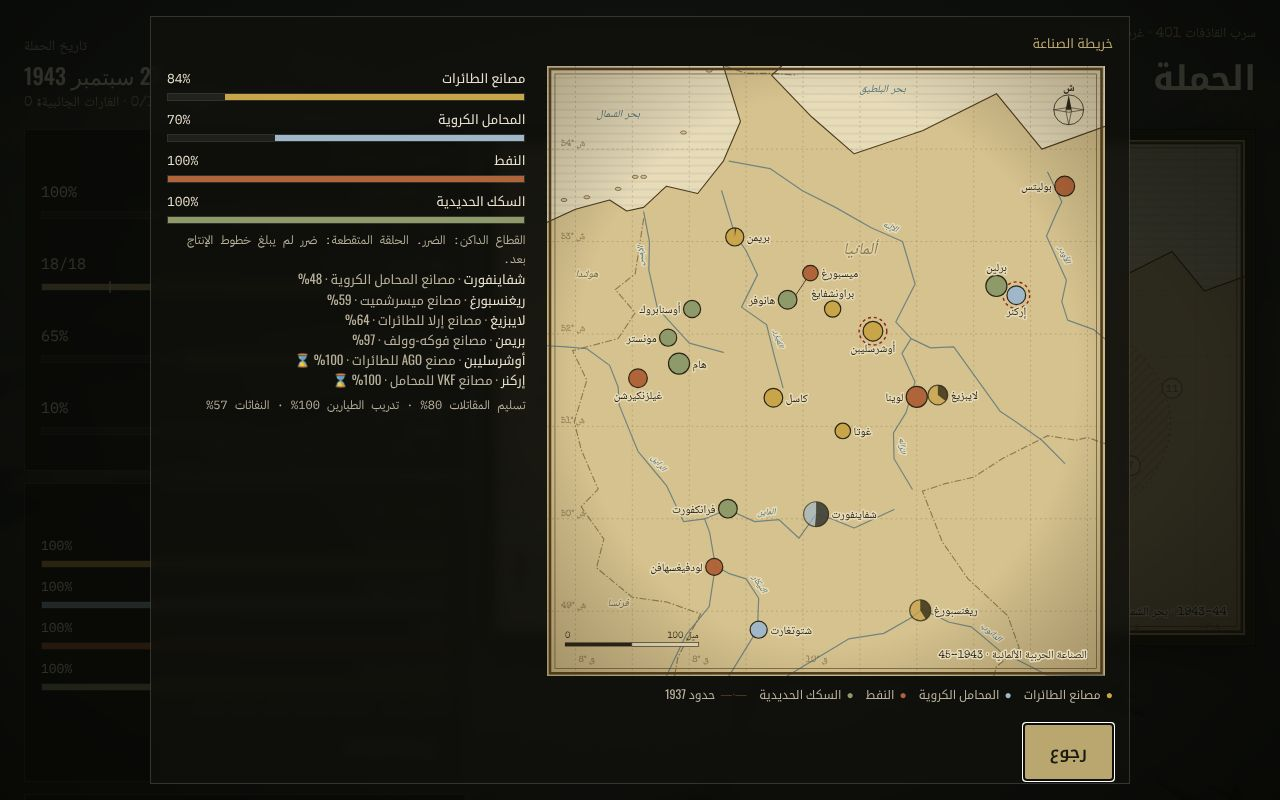
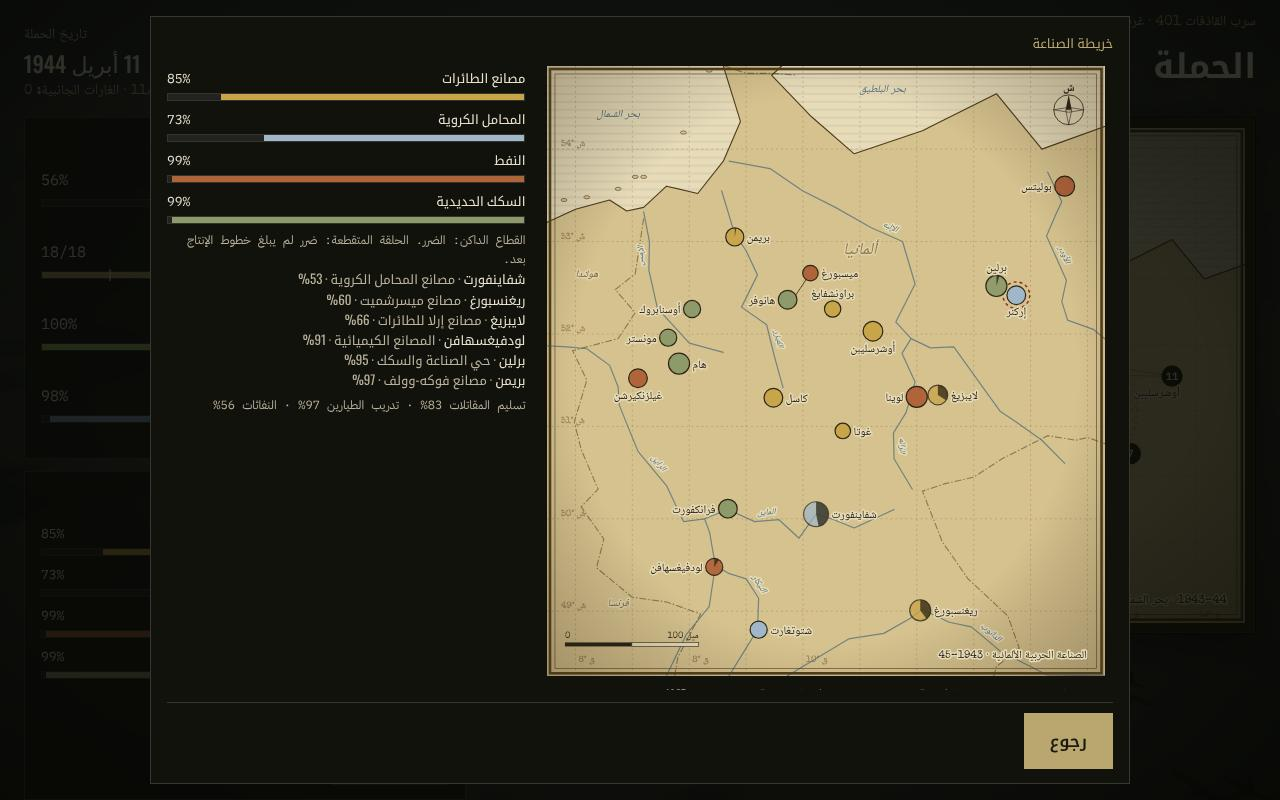
Phase 11 goal 10: phone industry map with pinned Back, shots from one state
- Industry map dialog: opaque card, scrolling body, Back pinned in a footer;
  compact phone layout fits 390x844 without scrolling (EN and AR)
- tools/strategic_shots.mjs captures map, card, industry map (desktop and
  phone) and newsreel from one seeded campaign state and asserts the card
  and overlay agree and Back is fully visible on phone
- Re-captured all goal 10 shots; full local check passes (935 tests)

Claude-Session: https://claude.ai/code/session_01DV2DjpR5u3iiqCbyi4red9

diff --git a/src/ui/StrategicPanel.ts b/src/ui/StrategicPanel.ts
@@ -52,7 +52,10 @@ function ensureStyle() {
 @media (prefers-reduced-motion: no-preference) { .sw-reel h4 { animation: sw-flicker 2.4s steps(12) 1; } }
 @keyframes sw-flicker { 0% { opacity: 0.2; } 10% { opacity: 0.9; } 14% { opacity: 0.55; } 30%, 100% { opacity: 1; } }
 .sw-map { position: fixed; inset: 0; z-index: 30; display: flex; align-items: center; justify-content: center; background: rgba(6,7,4,0.82); padding: 16px; }
-.sw-map .cm-card { width: min(980px, 100%); max-height: 100%; overflow-y: auto; }
+/* opaque, and only the body scrolls: Back stays pinned at the foot on any screen height */
+.sw-map .cm-card { width: min(980px, 100%); max-height: 100%; display: flex; flex-direction: column; overflow: hidden; background: #12120d; backdrop-filter: none; -webkit-backdrop-filter: none; }
+.sw-map .sw-body { flex: 1 1 auto; min-height: 0; overflow-y: auto; overscroll-behavior: contain; }
+.sw-map .cm-foot { flex: none; margin-top: 12px; padding-top: 10px; border-top: 1px solid var(--line); }
 .sw-map .grid { display: grid; grid-template-columns: minmax(0, 1.6fr) minmax(240px, 1fr); gap: 14px; align-items: start; }
 .sw-map svg { display: block; width: min(100%, calc((100vh - 190px) * ${(W / H).toFixed(3)})); min-width: min(100%, 320px); height: auto; margin: 0 auto; background: #e7dbb8; }
 .sw-map .legend { display: flex; flex-wrap: wrap; gap: 6px 12px; font-size: 12px; color: var(--ink-dim); margin-top: 8px; }
@@ -60,7 +63,19 @@ function ensureStyle() {
 .sw-map .legend span.fr::before { content: '—·—'; letter-spacing: -1px; color: #4d3b1e; }
 .sw-map .sites { font-size: 13px; line-height: 1.55; color: var(--ink-dim); margin: 0; padding: 0; list-style: none; }
 .sw-map .sites li b { color: var(--ink); font-weight: 500; }
-@media (max-width: 760px) { .sw-map .grid { grid-template-columns: minmax(0, 1fr); } }
+@media (max-width: 760px) {
+  .sw-map { padding: 10px; }
+  .sw-map .cm-card { padding: 12px 12px 10px; }
+  .sw-map .cm-card h3 { margin-bottom: 8px; }
+  .sw-map .grid { grid-template-columns: minmax(0, 1fr); gap: 8px; }
+  .sw-map svg { min-width: 0; width: min(100%, calc((100vh - 520px) * ${(W / H).toFixed(3)})); }
+  .sw-map .legend { margin-top: 4px; font-size: 11px; gap: 2px 10px; }
+  .sw-map .sw-sec { font-size: 11px; margin-bottom: 2px; }
+  .sw-map .sw-sec .cm-bar { height: 6px; margin: 2px 0 1px; }
+  .sw-map .sw-note { font-size: 11px; margin-top: 4px; }
+  .sw-map .sites { font-size: 12px; line-height: 1.4; margin-top: 4px; }
+  .sw-map .cm-foot { margin-top: 8px; padding-top: 8px; }
+}
 html[lang=ar] .sw-reel .k, html[lang=ar] .sw-reel p, html[lang=ar] .sw-head { font-family: 'Special Elite', 'Noto Naskh Arabic', monospace; letter-spacing: 0; line-height: 1.7; }
 html[lang=ar] .sw-reel h4, html[lang=ar] .sw-sec { letter-spacing: 0; }
 html[lang=ar] .sw-note { font-family: 'IBM Plex Mono', 'IBM Plex Sans Arabic', monospace; line-height: 1.6; }
@@ -226,13 +241,13 @@ export function showIndustryMap(c: CampaignData) {
     .sort((a, b) => d.sites[b.id].dmg - d.sites[a.id].dmg).slice(0, 6);
   const f = industryFactors(d);
   wrap.innerHTML = `<div class="cm-card" role="dialog" aria-modal="true"><h3>${tx('Industry map')}</h3>
-    <div class="grid"><div>${mapSvg(d)}
+    <div class="sw-body"><div class="grid"><div>${mapSvg(d)}
       <div class="legend">${SECTORS.map((s) => `<span style="--c:${SECTOR_COLOR[s]}">${esc(tx(SECTOR_LABEL[s]))}</span>`).join('')}<span class="fr">${esc(tx('Frontier, 1937'))}</span></div></div>
       <div>${sectorBars(d)}
         <p class="sw-note">${esc(tx('Dark wedge: damage. Dashed ring: damage still on its way to the production lines.'))}</p>
         <ul class="sites">${worst.map((s) => `<li><b>${esc(tx(s.city))}</b> · ${esc(tx(s.name))} · ${pct(1 - d.sites[s.id].dmg)}${d.sites[s.id].queue.length ? ' ⌛' : ''}</li>`).join('') || `<li>${esc(tx('No German works hit yet.'))}</li>`}</ul>
         <p class="sw-note">${esc(tx('Fighter deliveries {a} · pilot training {b} · jets {c}', { a: pct(d.fighters), b: pct(d.pilots), c: pct(f.jets) }))}</p>
-      </div></div>
+      </div></div></div>
     <div class="cm-foot"><button class="btn" data-sw-back>${tx('Back')}</button></div></div>`;
   // Esc / Backspace close the map only (captured before the campaign screen's own Back key)
   const key = (e: KeyboardEvent) => {

diff --git a/docs/phase11/reports/10.md b/docs/phase11/reports/10.md
@@ -72,7 +72,7 @@ On the m12 row, about a third of the 109s become Fw 190s, and the jets are at ab
 ## Tests
 - `npx tsc --noEmit`: clean.
 - `npx vite build`: clean.
-- `npx vitest run`: the full suite passed locally (94 files, 932 tests) before the last cosmetic UI tweaks. After those tweaks, I re-ran the related files: `strategicWar`, `campaign`, `secondTour`, `chapter` and `i18n` (70 tests, all pass).
+- `npm run check` (tsc, vite build, full vitest): passed locally after the phone fix, with all UI tweaks in: 94 files, 935 tests.
 - `tests/strategicWar.test.ts` (12 tests):
   - neutral when nothing is hit;
   - week mapping;
@@ -89,7 +89,9 @@ On the m12 row, about a third of the 109s become Fw 190s, and the jets are at ab
 - GitHub CI: see the commit's checks on the branch.
 
 ## Shots (`docs/phase11/shots/10/`)
-Headless Chromium with software rendering, in English and Arabic:
+Headless Chromium with software rendering, in English and Arabic. Every shot comes from `tools/strategic_shots.mjs` (`node tools/strategic_shots.mjs <vite port>`). One run builds a single game state for all of them: a fixed campaign seed (1943), and story operations 1–11 (through Big Week) flown as successes with 2 of 12 bombers lost each. Because of this, the card, the overlay and the newsreel all show the same numbers in both languages: aircraft 85 %, bearings 73 %, oil 99 %, rail 99 %. The script asserts that the card and the overlay agree.
+
+Files:
 - `map-*.jpg`: the campaign map with the War industry card;
 - `card-*.jpg`: the card on its own;
 - `industry-map-*.jpg`: the industry map at 1280×800;
@@ -124,3 +126,14 @@ Headless Chromium with software rendering, in English and Arabic:
   - When only one type falls, the line says the other type fills in, which matches the `ENEMY_MIX` swap.
   - A test covers both cases. The Arabic lines were added and are checked by the coverage test.
 - **Shots re-captured:** `industry-map-en.jpg`, `industry-map-ar.jpg`, `industry-map-phone-en.jpg` and `industry-map-phone-ar.jpg`.
+
+## Review fixes (after the second rejection)
+- **Phone industry map.** The dialog is now a flex column: the title, a body that can scroll (`.sw-body`) and a footer pinned at the bottom with the Back button.
+  - The card is opaque (`#12120d`, no backdrop blur), so the campaign screen no longer shows through it.
+  - At 760 px wide or less, the chart is sized to the viewport height and the bars, notes and list are tighter. At 390×844 everything fits without scrolling in both EN and AR.
+  - The shot script checks this at 390×844: Back sits inside the dialog and above 844 px, nothing covers it (`elementFromPoint`), it has focus, and the body has nothing to scroll.
+  - Measured: EN Back at y 735–784 inside a card ending at 795; AR Back at y 751–807 inside a card ending at 818.
+- **Desktop overlay** is unchanged apart from a hairline above the footer and an opaque card. The chart, labels and layout are the same.
+- **Re-captured from the current code and the same state:** `map-*`, `card-*`, `industry-map-*`, `industry-map-phone-*` and `newsreel-*` (EN and AR).
+  - The newsreel now shows the single-type forecast: "Fewer Bf 109s expected: Messerschmitt deliveries are down, more Fw 190s fill in". It no longer shows the old contradictory pair.
+  - Its sector bars (85/73/99/99) match the card and the overlay.
